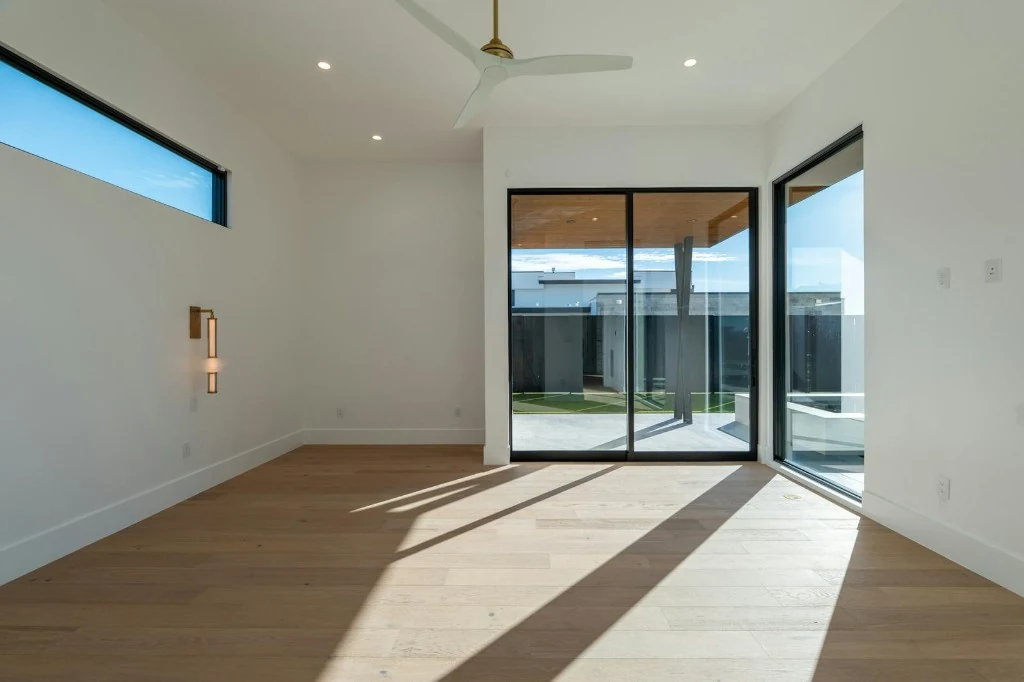
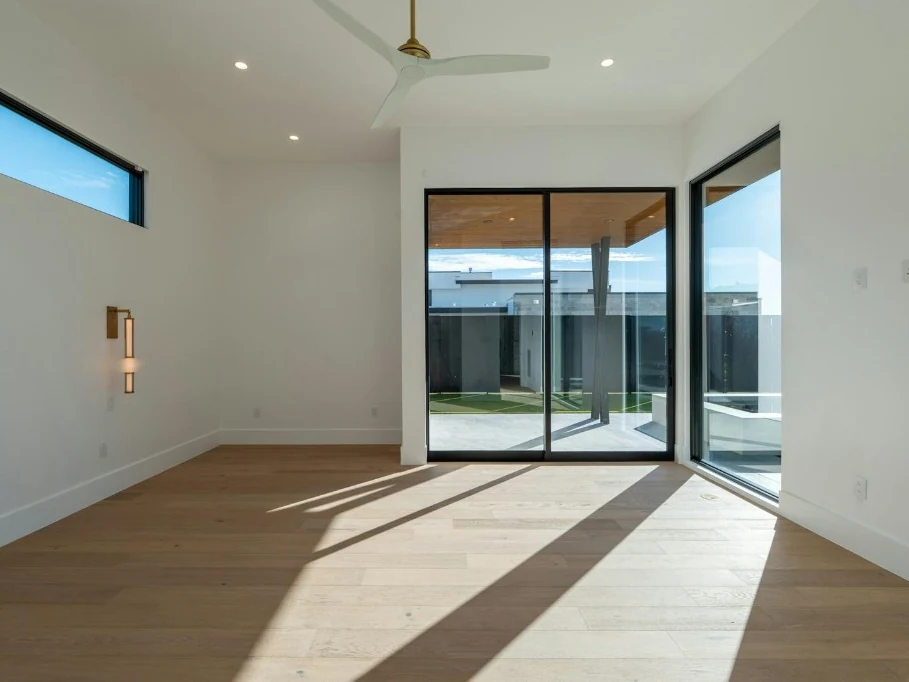
Update homepage hero

diff --git a/css/styles.css b/css/styles.css
@@ -297,6 +297,16 @@ strong{color:var(--ink);font-weight:600;}
   }
 }
 
+/* Phone only (matches hero-sm picture breakpoint) — premium mobile crop */
+@media (max-width:720px){
+  .hero-photo{
+    aspect-ratio:4/3;
+  }
+  .hero-photo img{
+    object-position:72% 38%;
+  }
+}
+
 @media (max-width:520px){
   .hero{padding:calc(52px + 1.5rem) 0 1.75rem;}
   .hero-inner{gap:1.25rem;}
@@ -327,7 +337,7 @@ strong{color:var(--ink);font-weight:600;}
     gap:1.2rem;
   }
   .hero-photo{
-    aspect-ratio:3/2;
+    aspect-ratio:4/3;
     border-radius:12px;
   }
   .hero-stage .demo-card{
